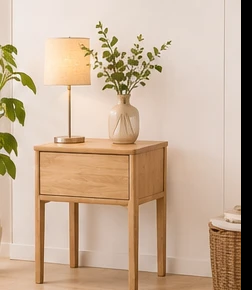
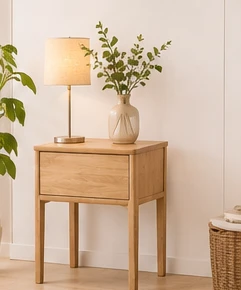
Fix product detail images cut at arbitrary heights
Split the supplied strips at real photo boundaries instead of a fixed
height, so each detail image ends on a complete photo. Limit the
detail image width to 300px and center it, because the source images
are only 252px wide and look blurry when scaled up.

Claude-Session: https://claude.ai/code/session_01S8uJnYBDFYm96BJjaA64Nf

diff --git a/shop/css/shop.css b/shop/css/shop.css
@@ -239,4 +239,4 @@ footer p { margin:4px 0; }
 @media (hover:none) { .card .quick { opacity:1; transform:none; } }
 .empty-note { margin:0; padding:24px; text-align:center; color:var(--sub); border:1px dashed var(--line); border-radius:var(--radius); font-size:14px; }
 
-#intro-img { display:block; width:100%; height:auto; }
+#intro-img { display:block; width:100%; max-width:300px; height:auto; margin:0 auto; }
